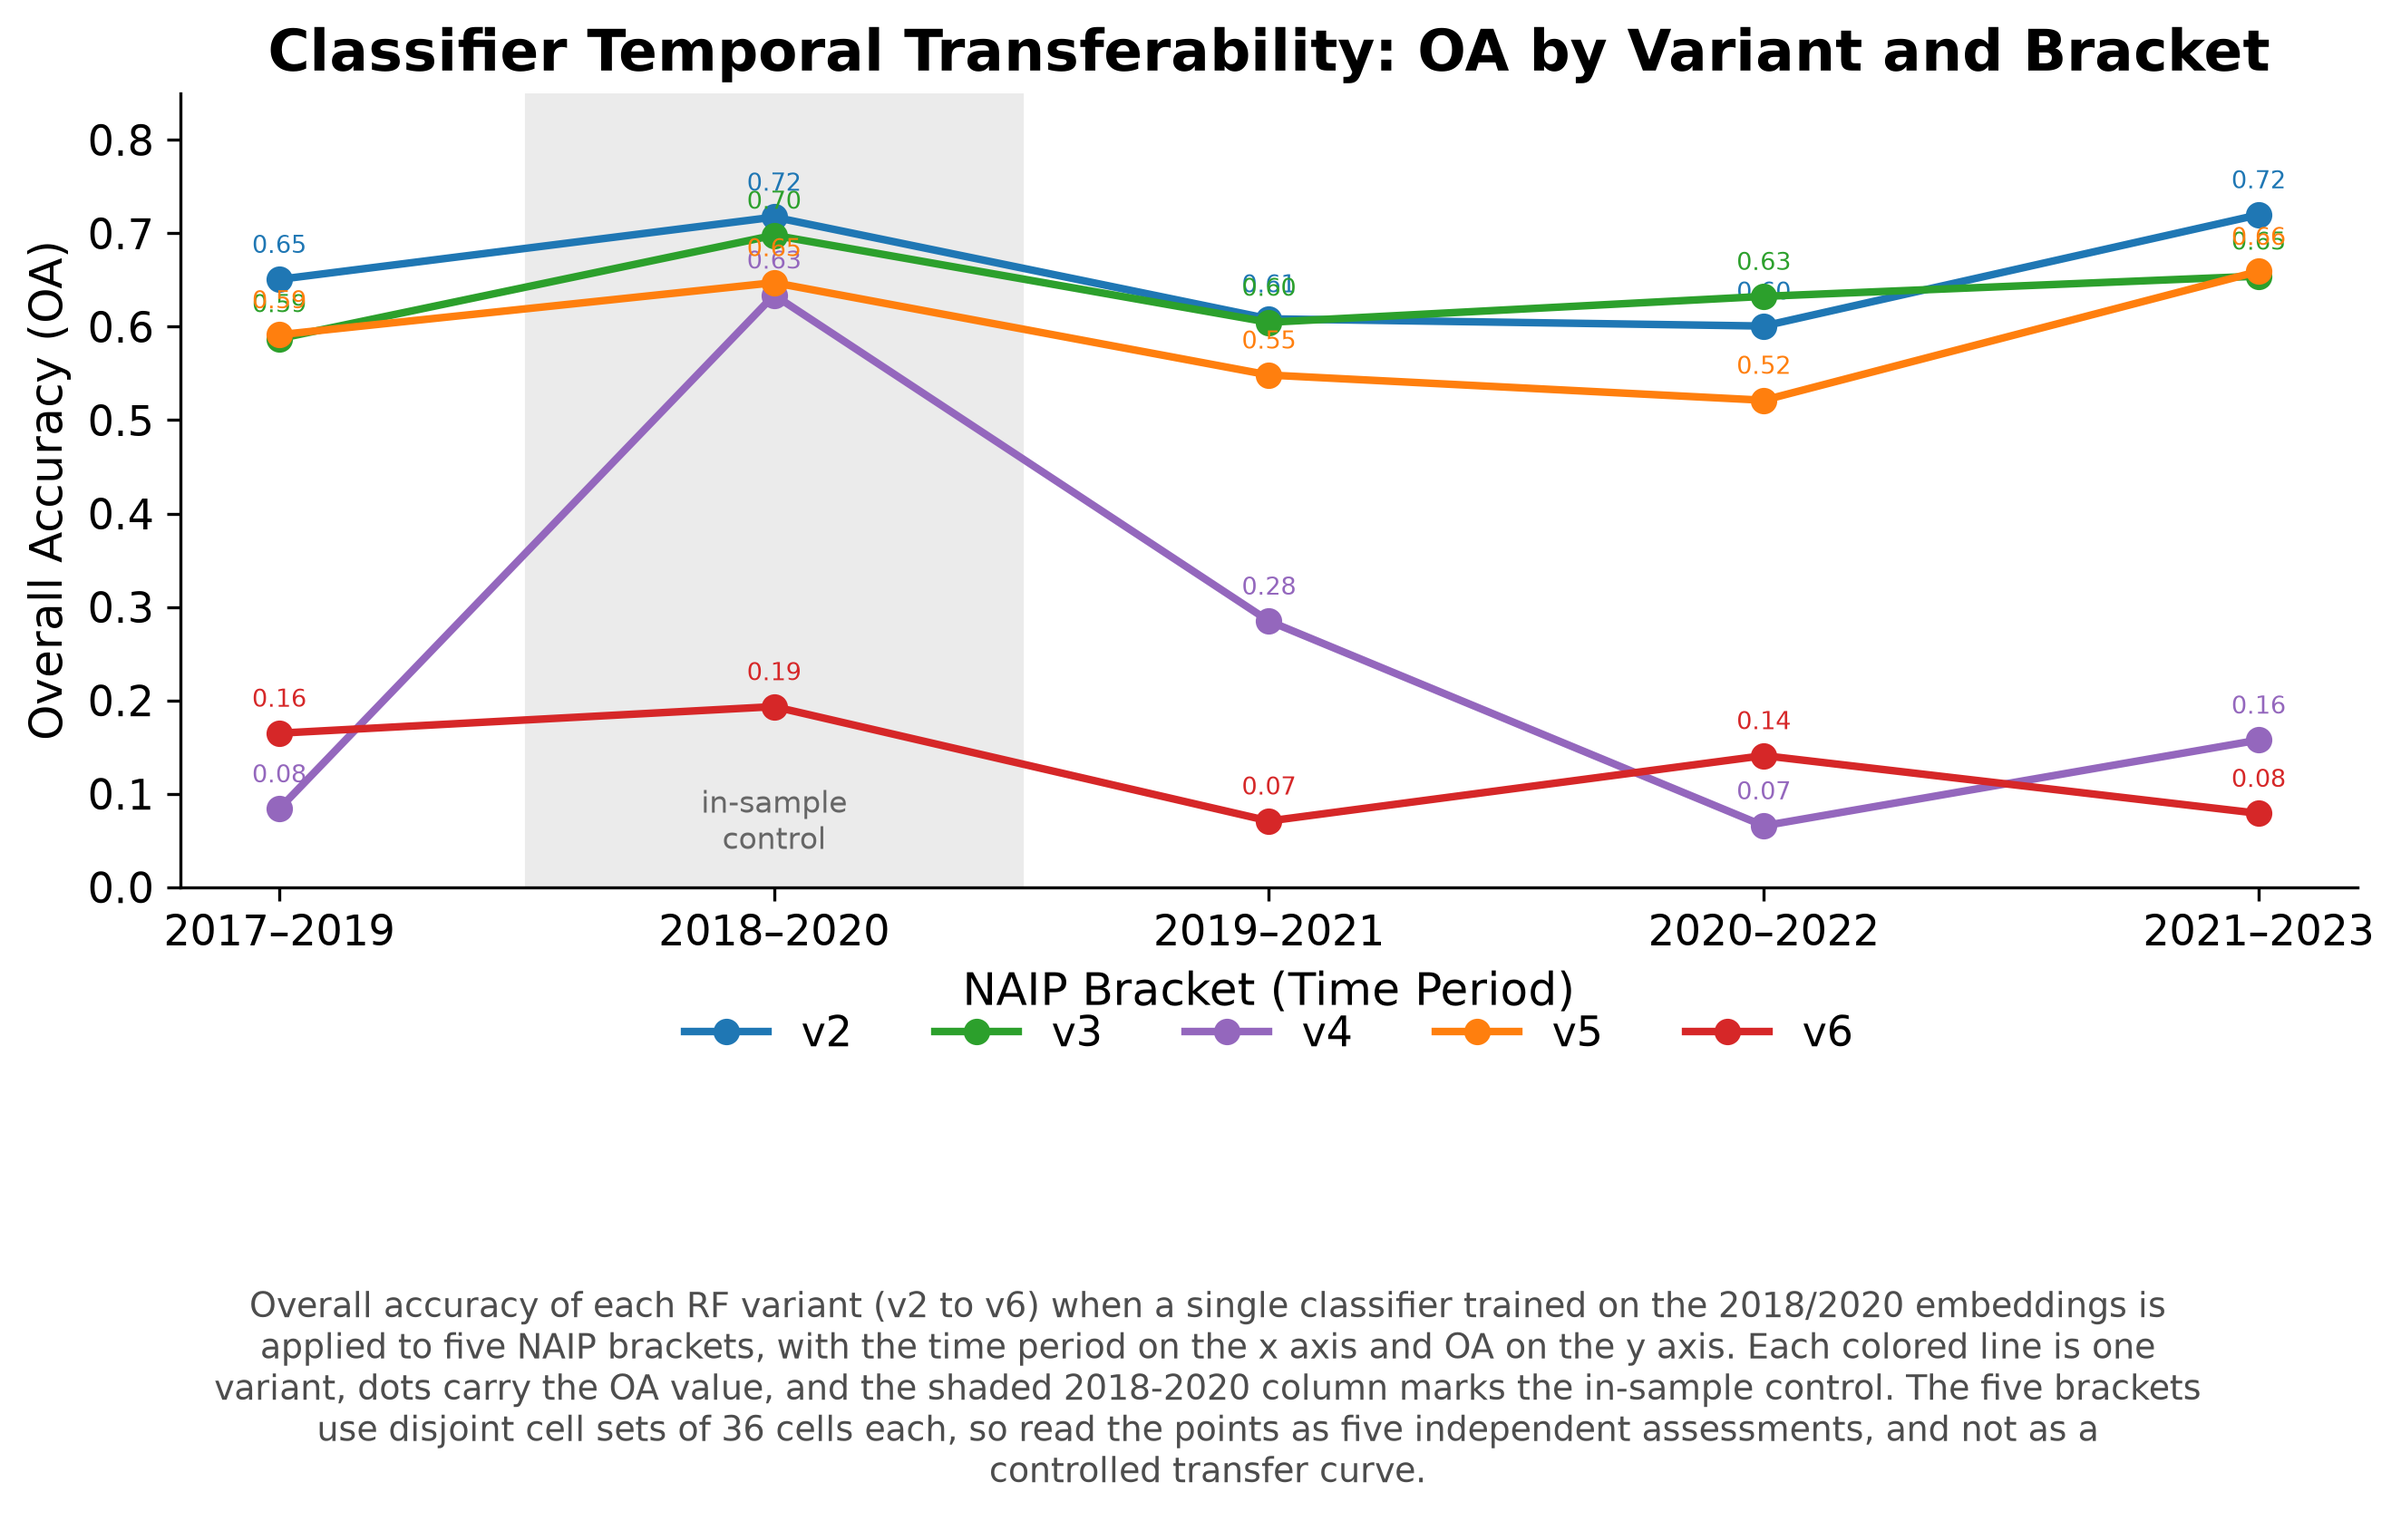
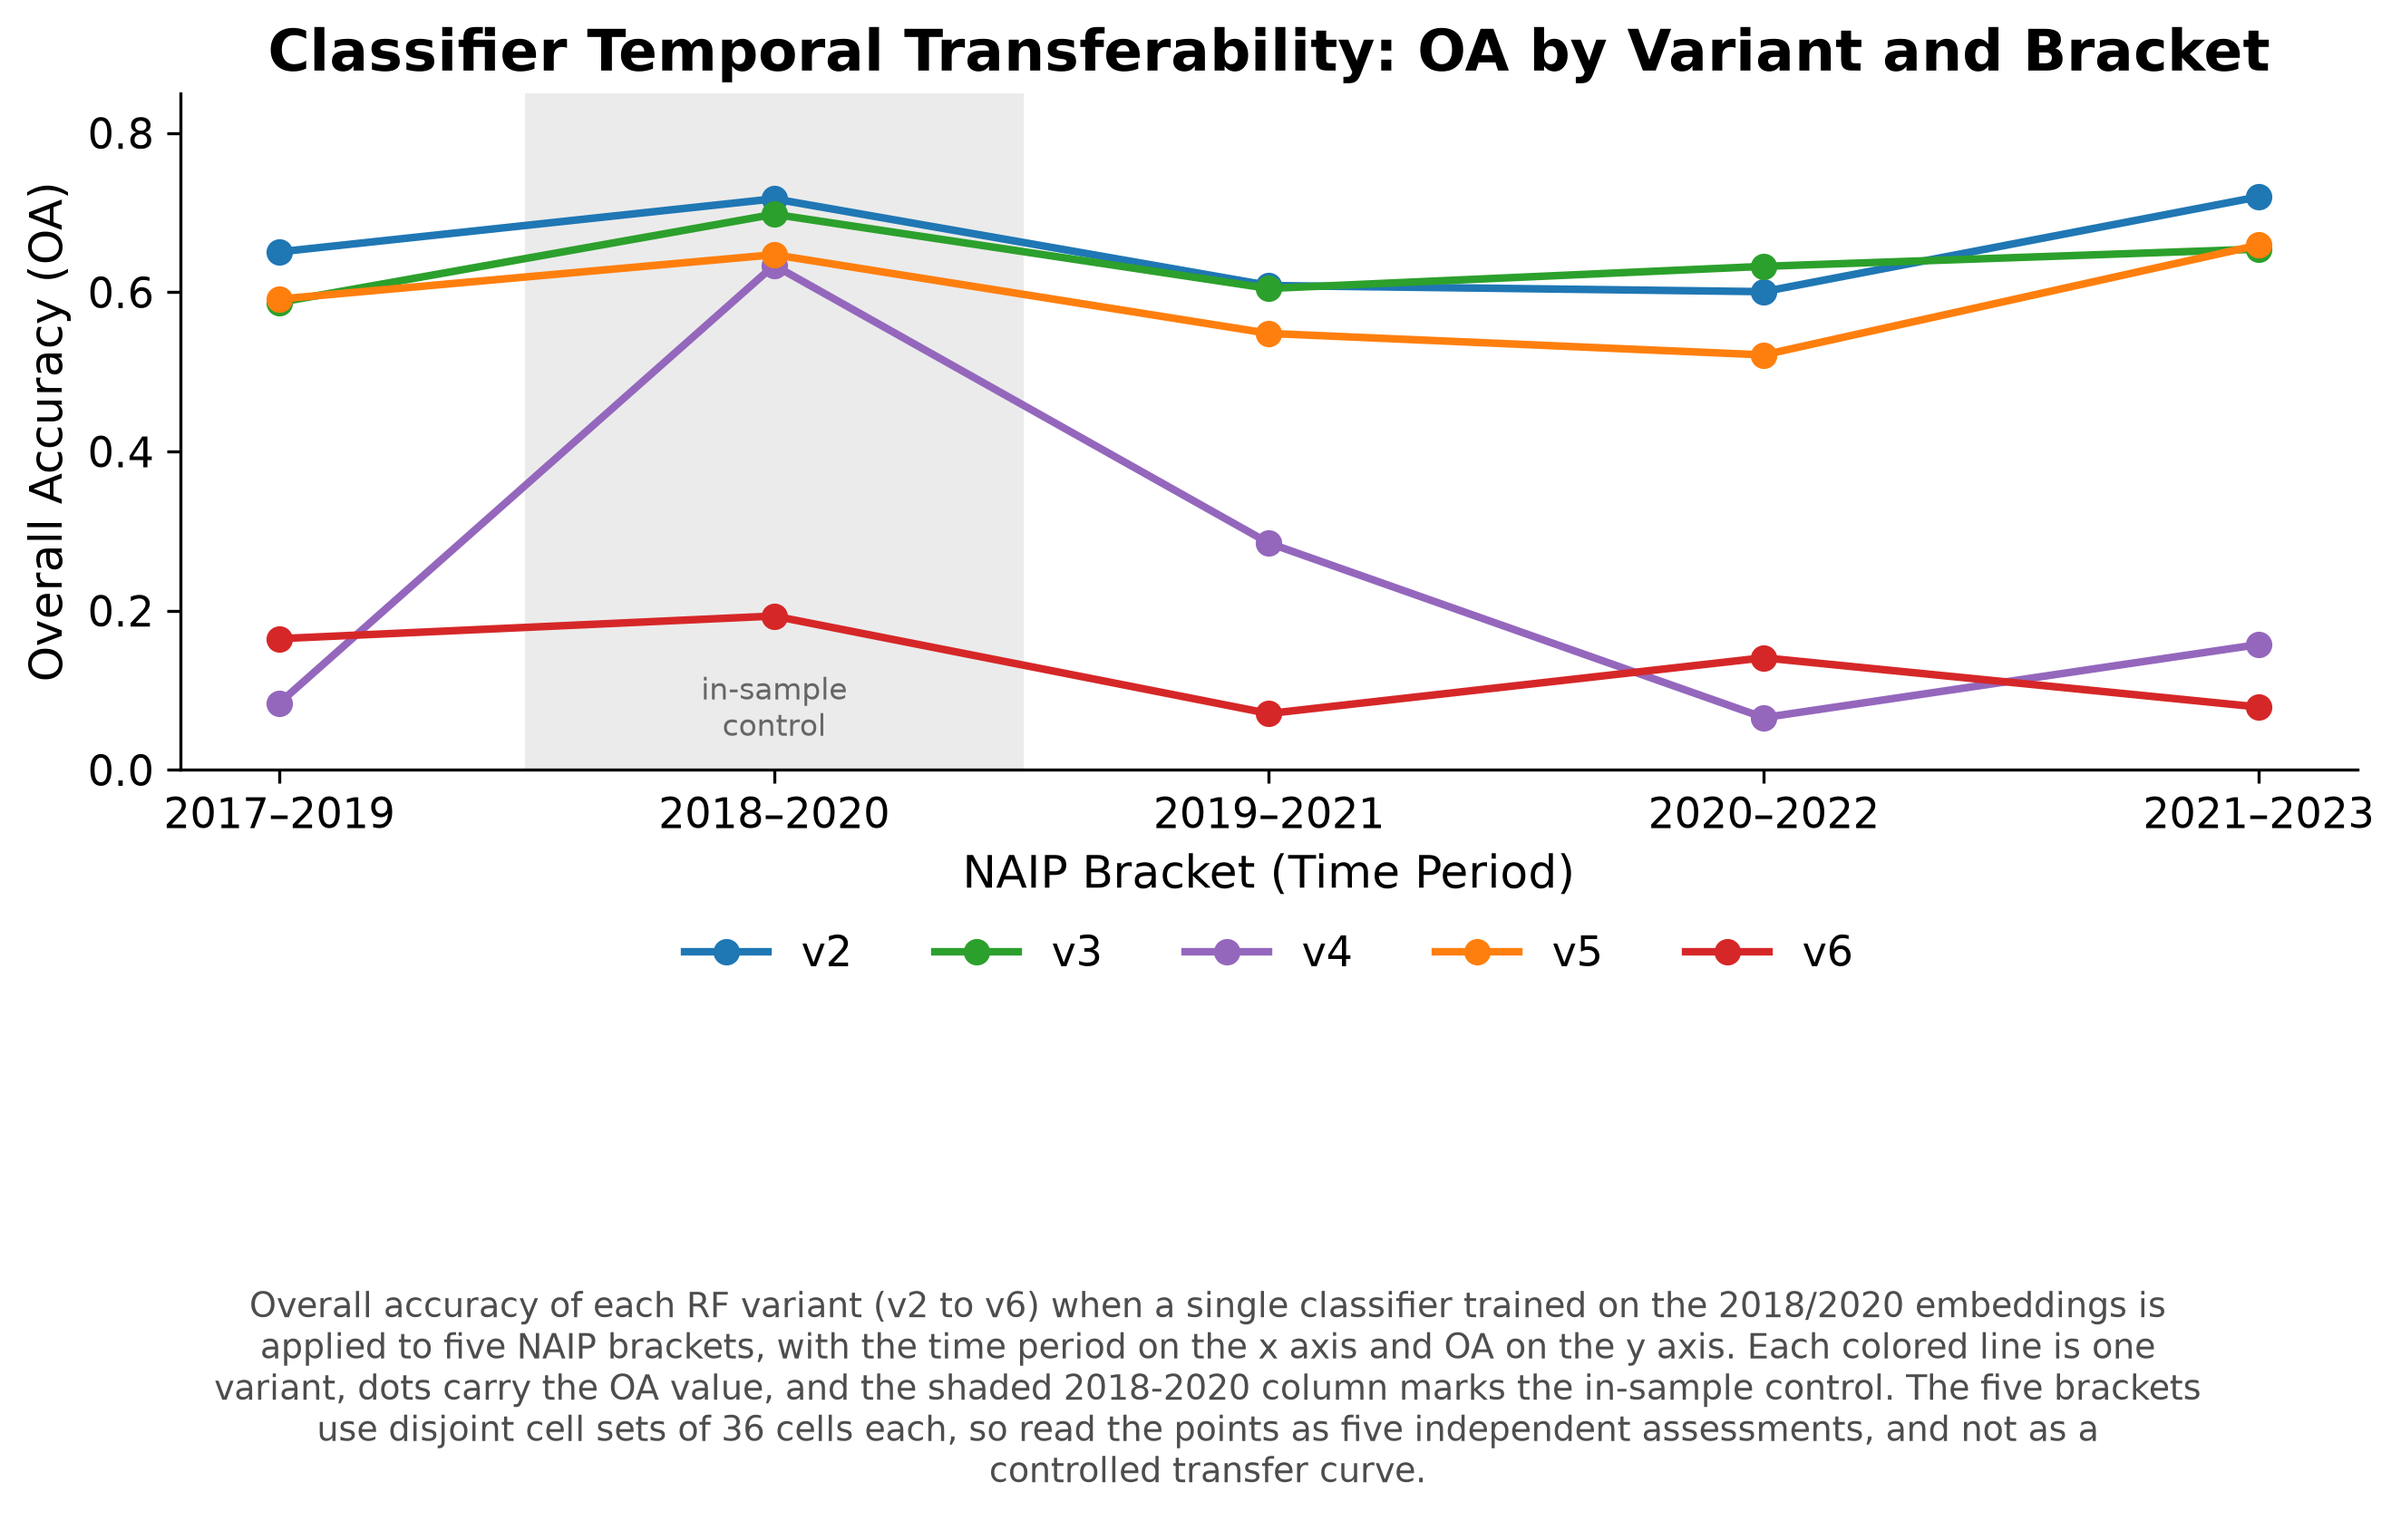
figure_2_4 (OA by bracket): drop per-point value labels, lower legend
Remove the overlapping per-point OA annotations and move the legend
further below the x-axis label for clearer spacing.

diff --git a/scripts/plot_transfer_oa.py b/scripts/plot_transfer_oa.py
@@ -55,9 +55,6 @@ def main():
 
     for v in VARIANTS:
         ax.plot(x, oa.loc[v].to_numpy(), "-o", color=VPAL[v], lw=2, ms=6, label=v, zorder=3)
-        for xi, val in zip(x, oa.loc[v].to_numpy()):       # value labels
-            ax.annotate(f"{val:.2f}", (xi, val), textcoords="offset points", xytext=(0, 7),
-                        ha="center", fontsize=6.5, color=VPAL[v])
 
     ax.set_xticks(list(x)); ax.set_xticklabels(xlabels)
     ax.tick_params(labelsize=11)
@@ -67,7 +64,7 @@ def main():
     ax.set_ylabel("Overall Accuracy (OA)", fontsize=12)
     ax.set_title("Classifier Temporal Transferability: OA by Variant and Bracket",
                  fontsize=15, fontweight="bold")
-    ax.legend(frameon=False, ncol=5, loc="lower center", bbox_to_anchor=(0.5, -0.26), fontsize=11)
+    ax.legend(frameon=False, ncol=5, loc="lower center", bbox_to_anchor=(0.5, -0.36), fontsize=11)
     ax.grid(False)
     for s in ("top", "right"):
         ax.spines[s].set_visible(False)
